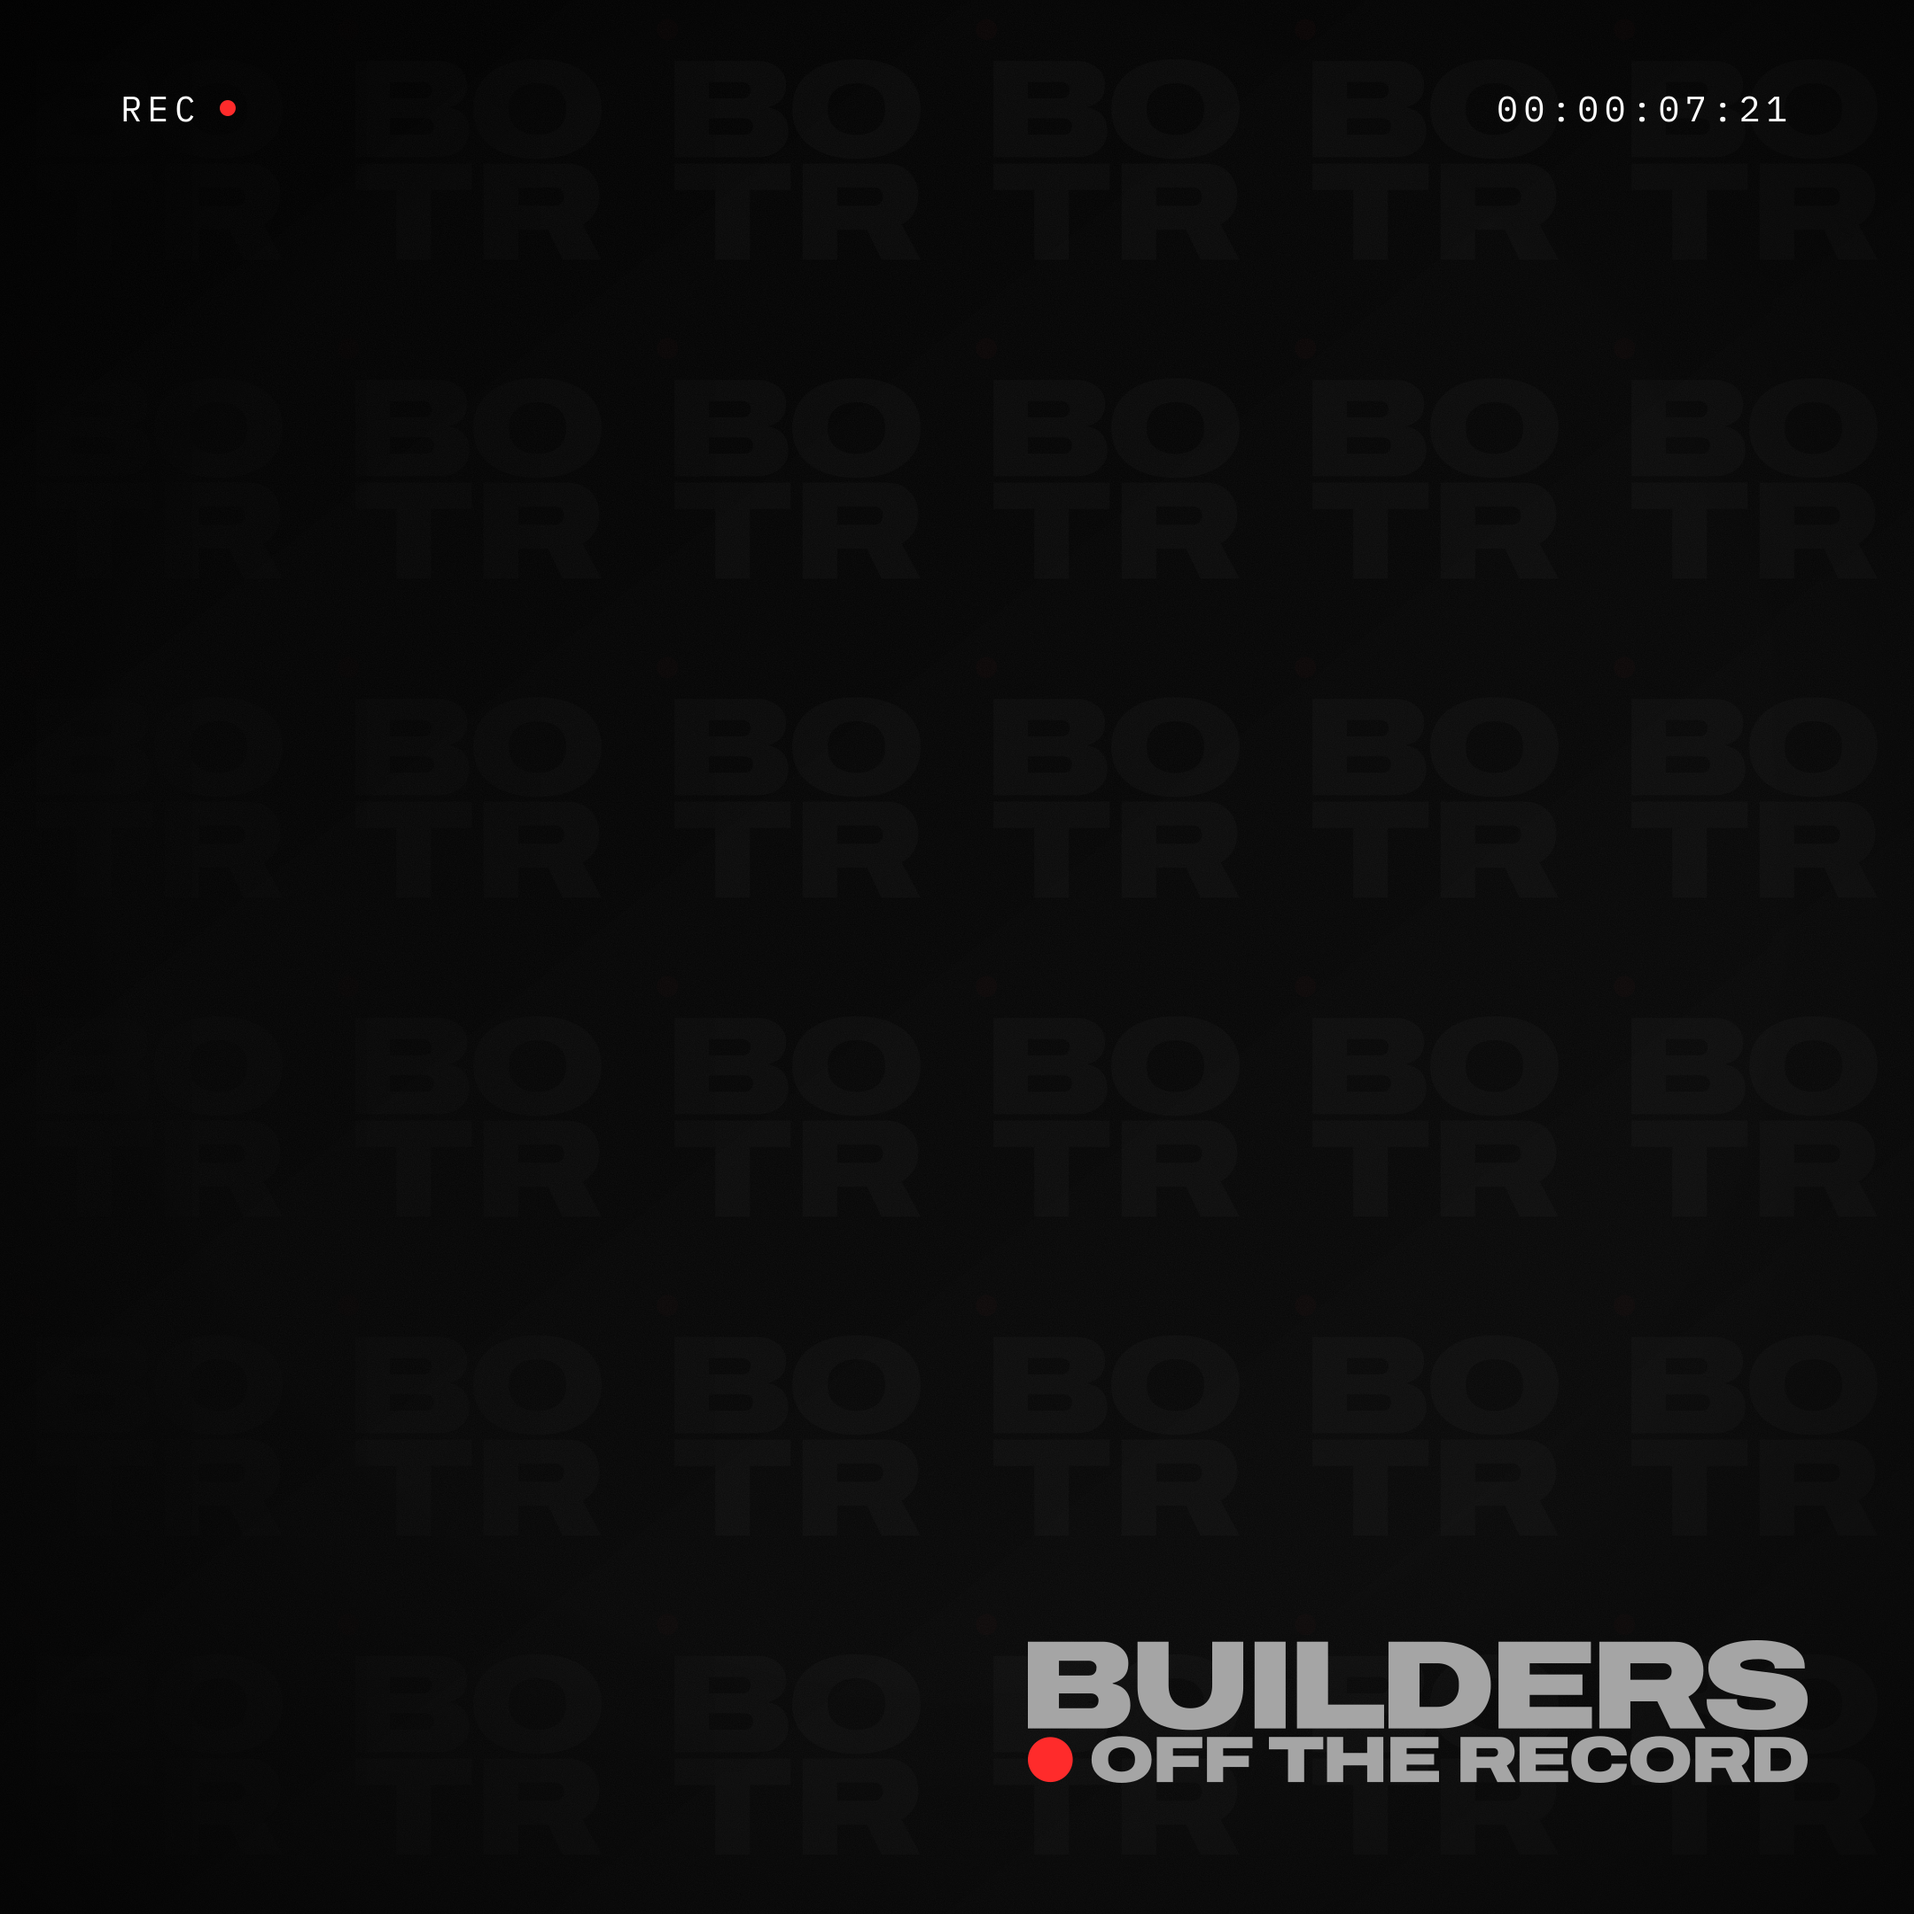
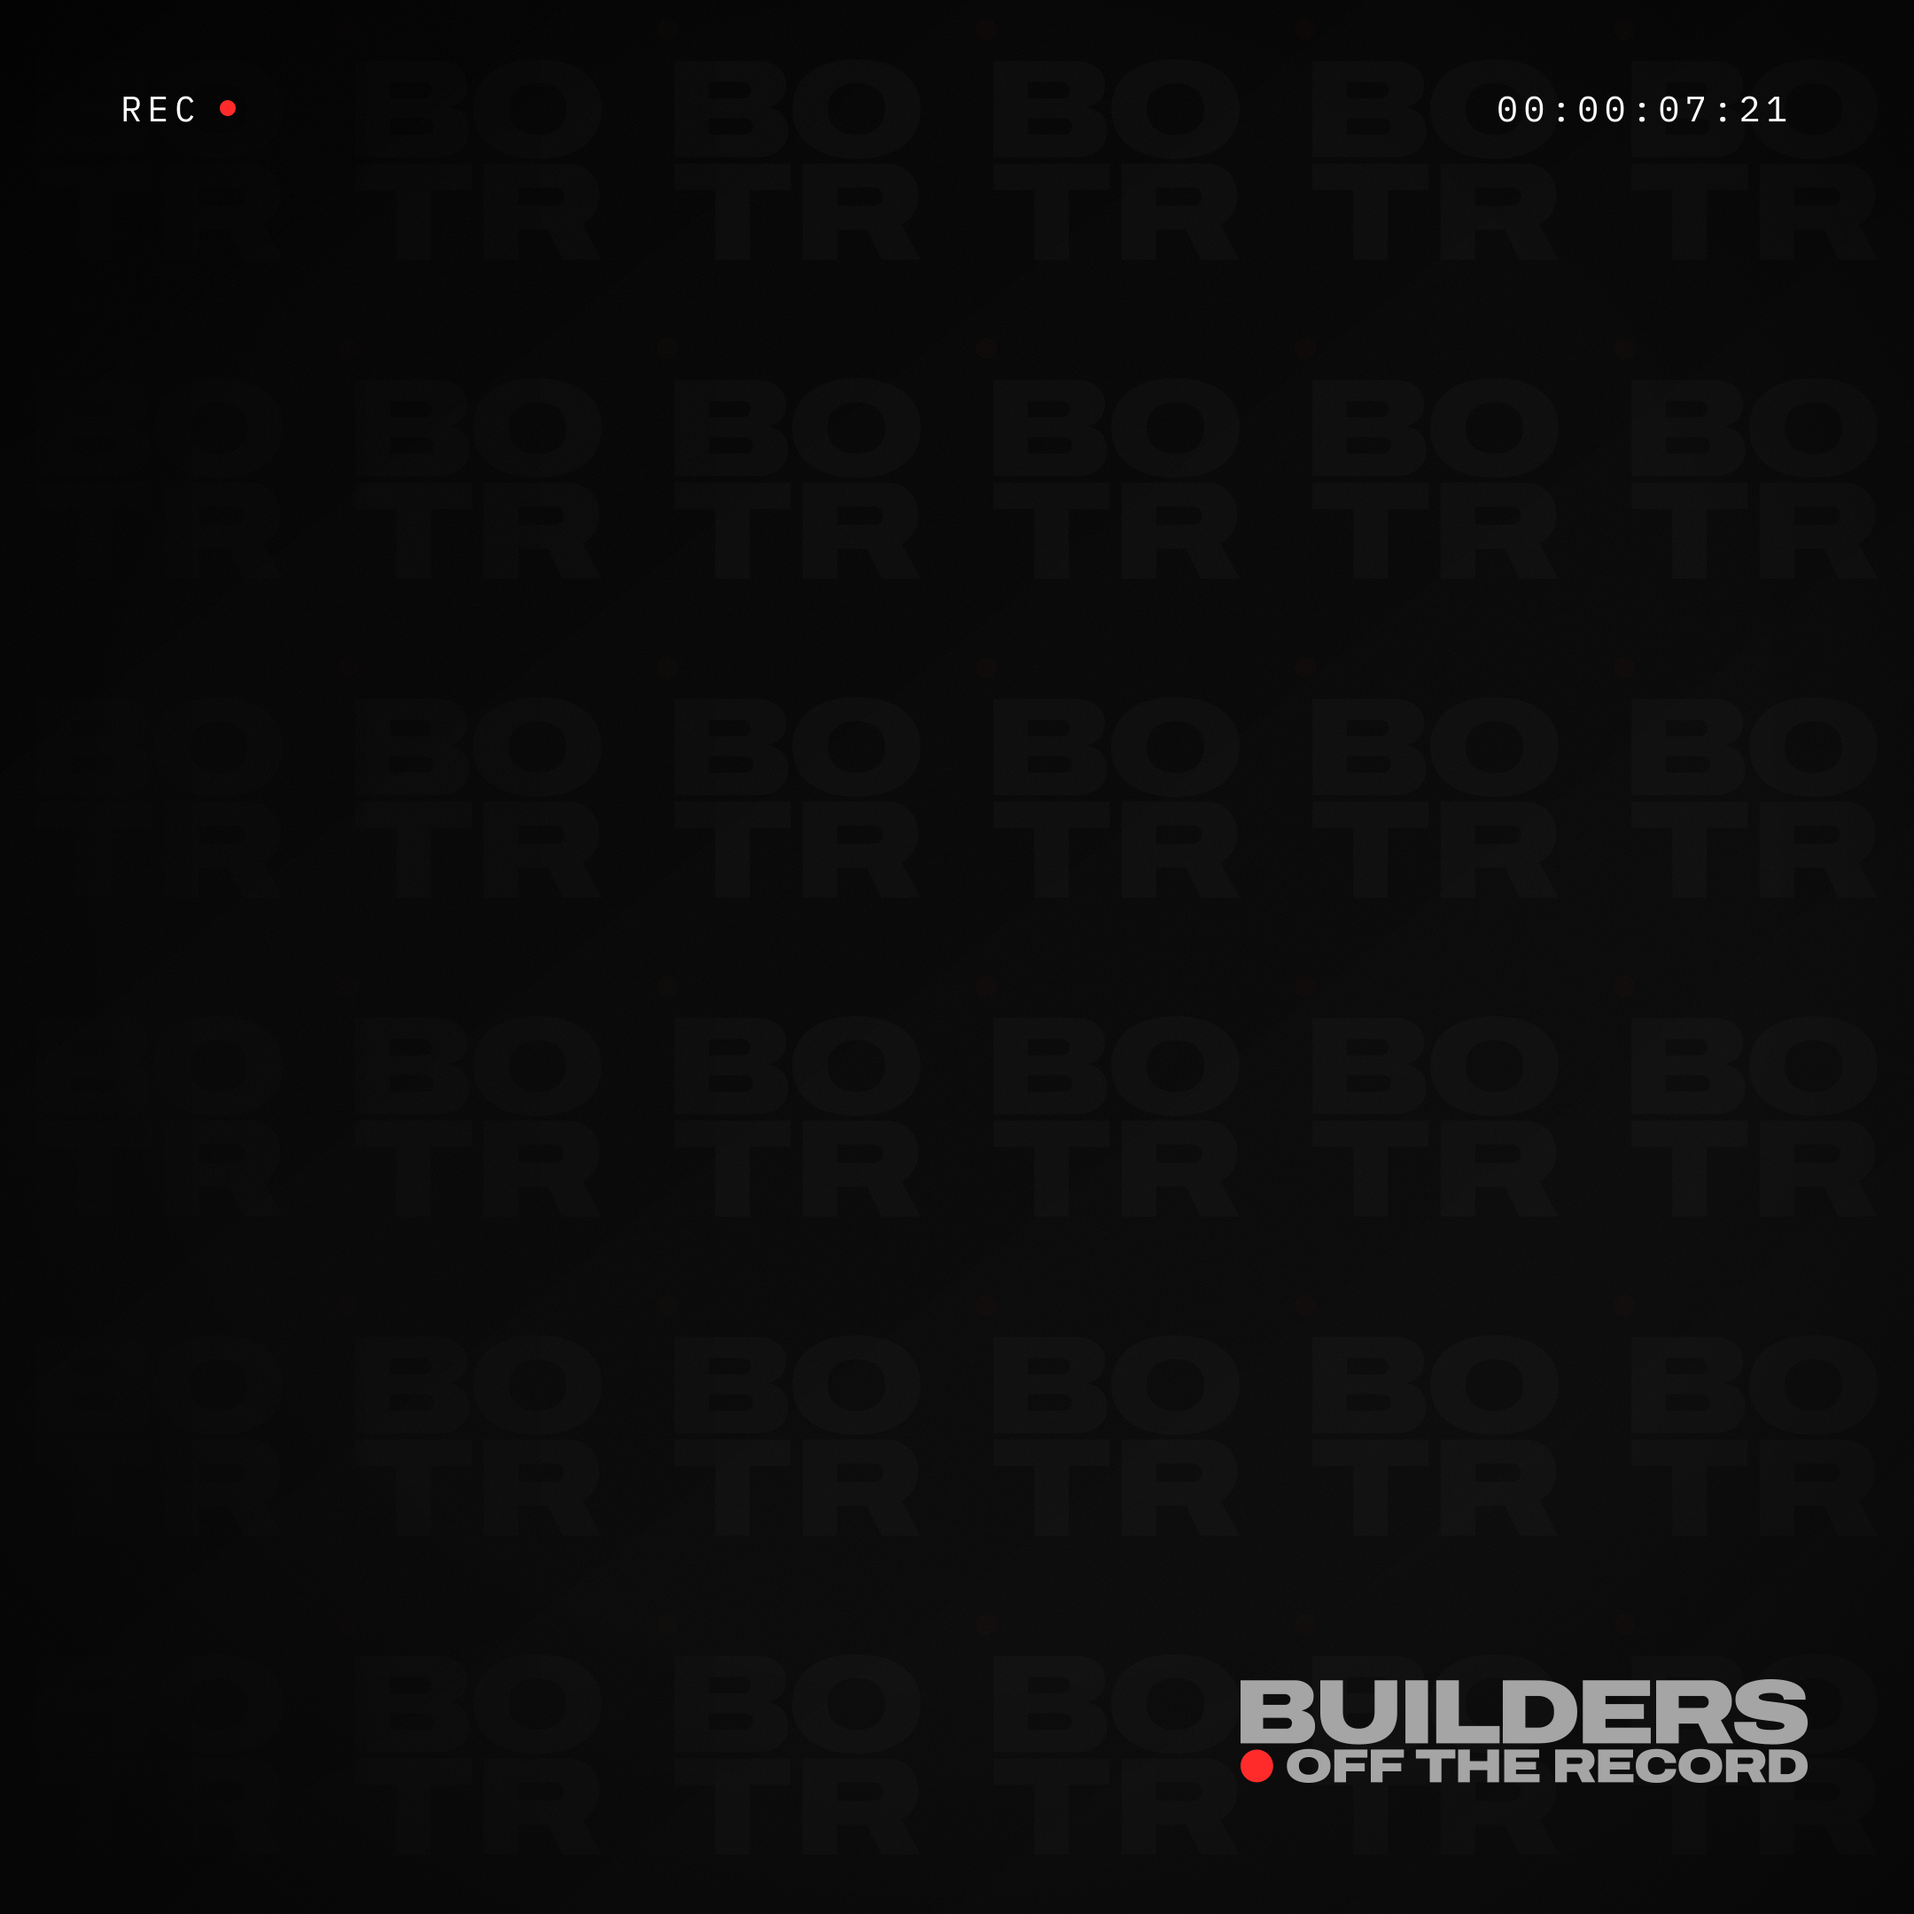
feat(placas): bajar el wordmark de 440 a 320 en 1:1
A 440 (40.7% del ancho) competia con la caja de datos por el peso de la mitad
inferior. Elegido comparando renders a 440, 380 y 320.

Solo el 1:1. Los otros lienzos no estan calibrados, asi que se dejaron como
estaban en vez de arrastrarles un numero elegido para el cuadrado.

Toca la capa fija: rehorneado y golden file actualizado, 16 tests en verde.

Changed region(s): [[0.5273, 0.8375, 0.9616, 0.9306]]

diff --git a/placas/lienzos.ts b/placas/lienzos.ts
@@ -29,6 +29,14 @@ export type Lienzo = {
    * comienzo de la foto: con `fotoAncho` 0.48 y márgenes de 40+20, eso es
    * cualquier valor arriba de ~460 en 1080.
    */
+  /**
+   * Ancho del wordmark, en px.
+   *
+   * El 1:1 usa 320 y los demás siguen en 400-460: se bajó mirando renders
+   * reales. A 440 el logo competía con la caja de datos por el peso de la
+   * mitad inferior. Los otros lienzos no están calibrados, así que se dejaron
+   * como estaban en vez de arrastrarles un número elegido para el cuadrado.
+   */
   logoAncho: number;
   /**
    * Ancho fijo de la caja de datos, en px.
@@ -54,7 +62,7 @@ export type Lienzo = {
  * ajustarlos a ojo cuando se activen.
  */
 export const LIENZOS = {
-  "1:1": { ancho: 1080, alto: 1080, margen: 40, nombreTamano: 200, rolTamano: 25, fotoAncho: 0.48, logoAncho: 440, cajaAncho: 480 },
+  "1:1": { ancho: 1080, alto: 1080, margen: 40, nombreTamano: 200, rolTamano: 25, fotoAncho: 0.48, logoAncho: 320, cajaAncho: 480 },
   "4:5": { ancho: 1080, alto: 1350, margen: 44, nombreTamano: 210, rolTamano: 26, fotoAncho: 0.46, logoAncho: 440, cajaAncho: 480 },
   "9:16": { ancho: 1080, alto: 1920, margen: 48, nombreTamano: 220, rolTamano: 28, fotoAncho: 0.5, logoAncho: 460, cajaAncho: 500 },
   "16:9": { ancho: 1280, alto: 720, margen: 32, nombreTamano: 142, rolTamano: 20, fotoAncho: 0.38, logoAncho: 400, cajaAncho: 380 },

diff --git a/scripts/render-prueba.ts b/scripts/render-prueba.ts
@@ -1,0 +1,7 @@
+import { armarPlaca } from '../lib/placa';
+import { readFile, writeFile } from 'node:fs/promises';
+(async()=>{
+  const salida = process.argv[2];
+  const r = await armarPlaca(JSON.parse(await readFile('placas/muestra/gr.json','utf8')), await readFile('placas/muestra/gr.png'));
+  if(r.ok) await writeFile(salida, r.png); else console.log('ERR', r.motivo);
+})();
